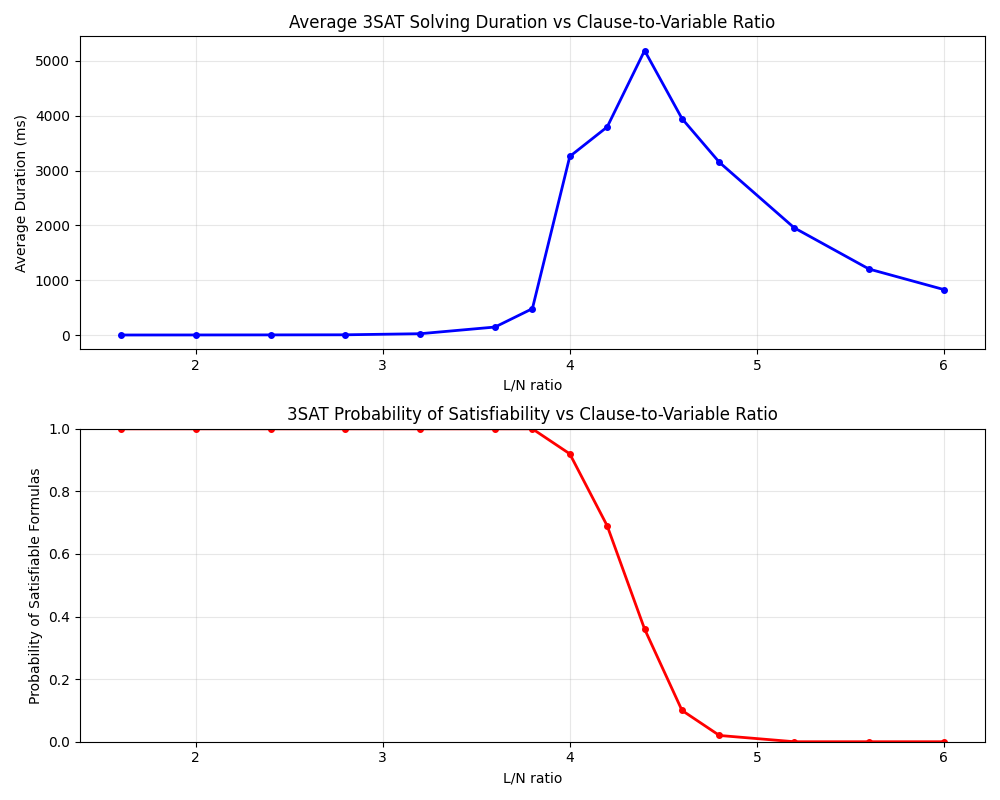
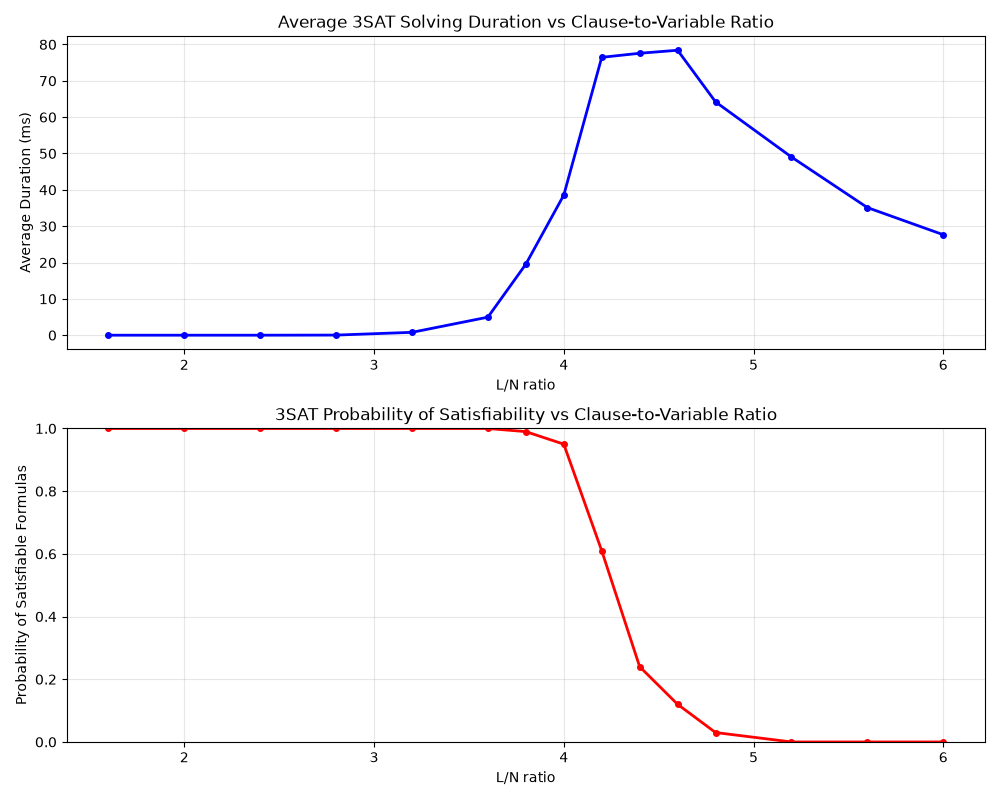
fix

diff --git a/scripts/viz.py b/scripts/viz.py
@@ -43,7 +43,7 @@ def calculate_metrics(
 
     for ratio, records in ratio_groups.items():
         # Calculate average duration
-        avg_duration = sum(r["duration"] for r in records) / len(records)
+        avg_duration = sum(r["duration_ms"] for r in records) / len(records)
 
         # Calculate SAT prob
         sat_prob = sum(1 for r in records if r["sat"]) / len(records)